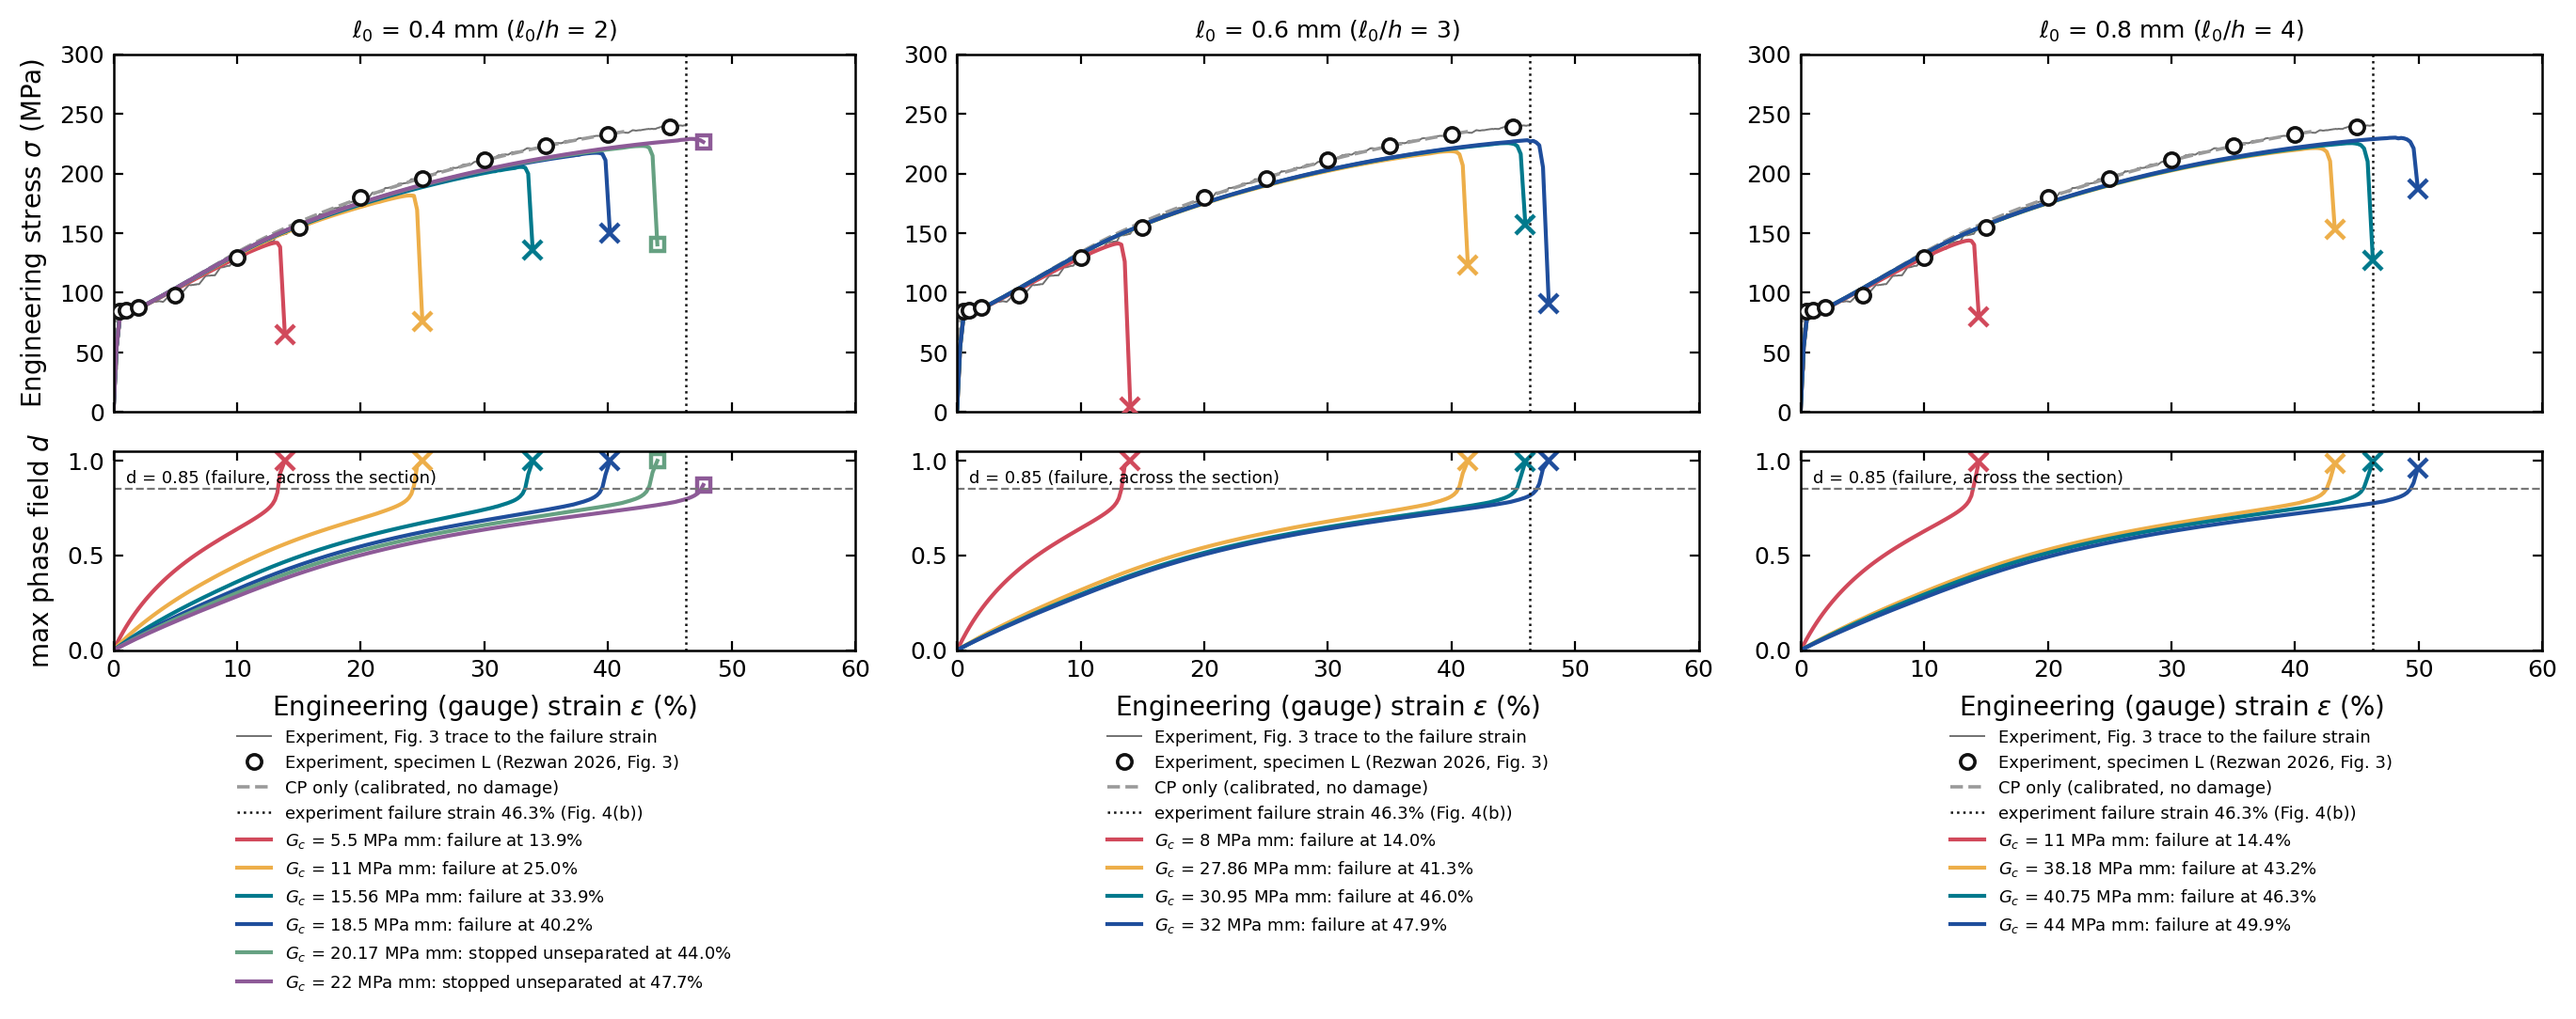
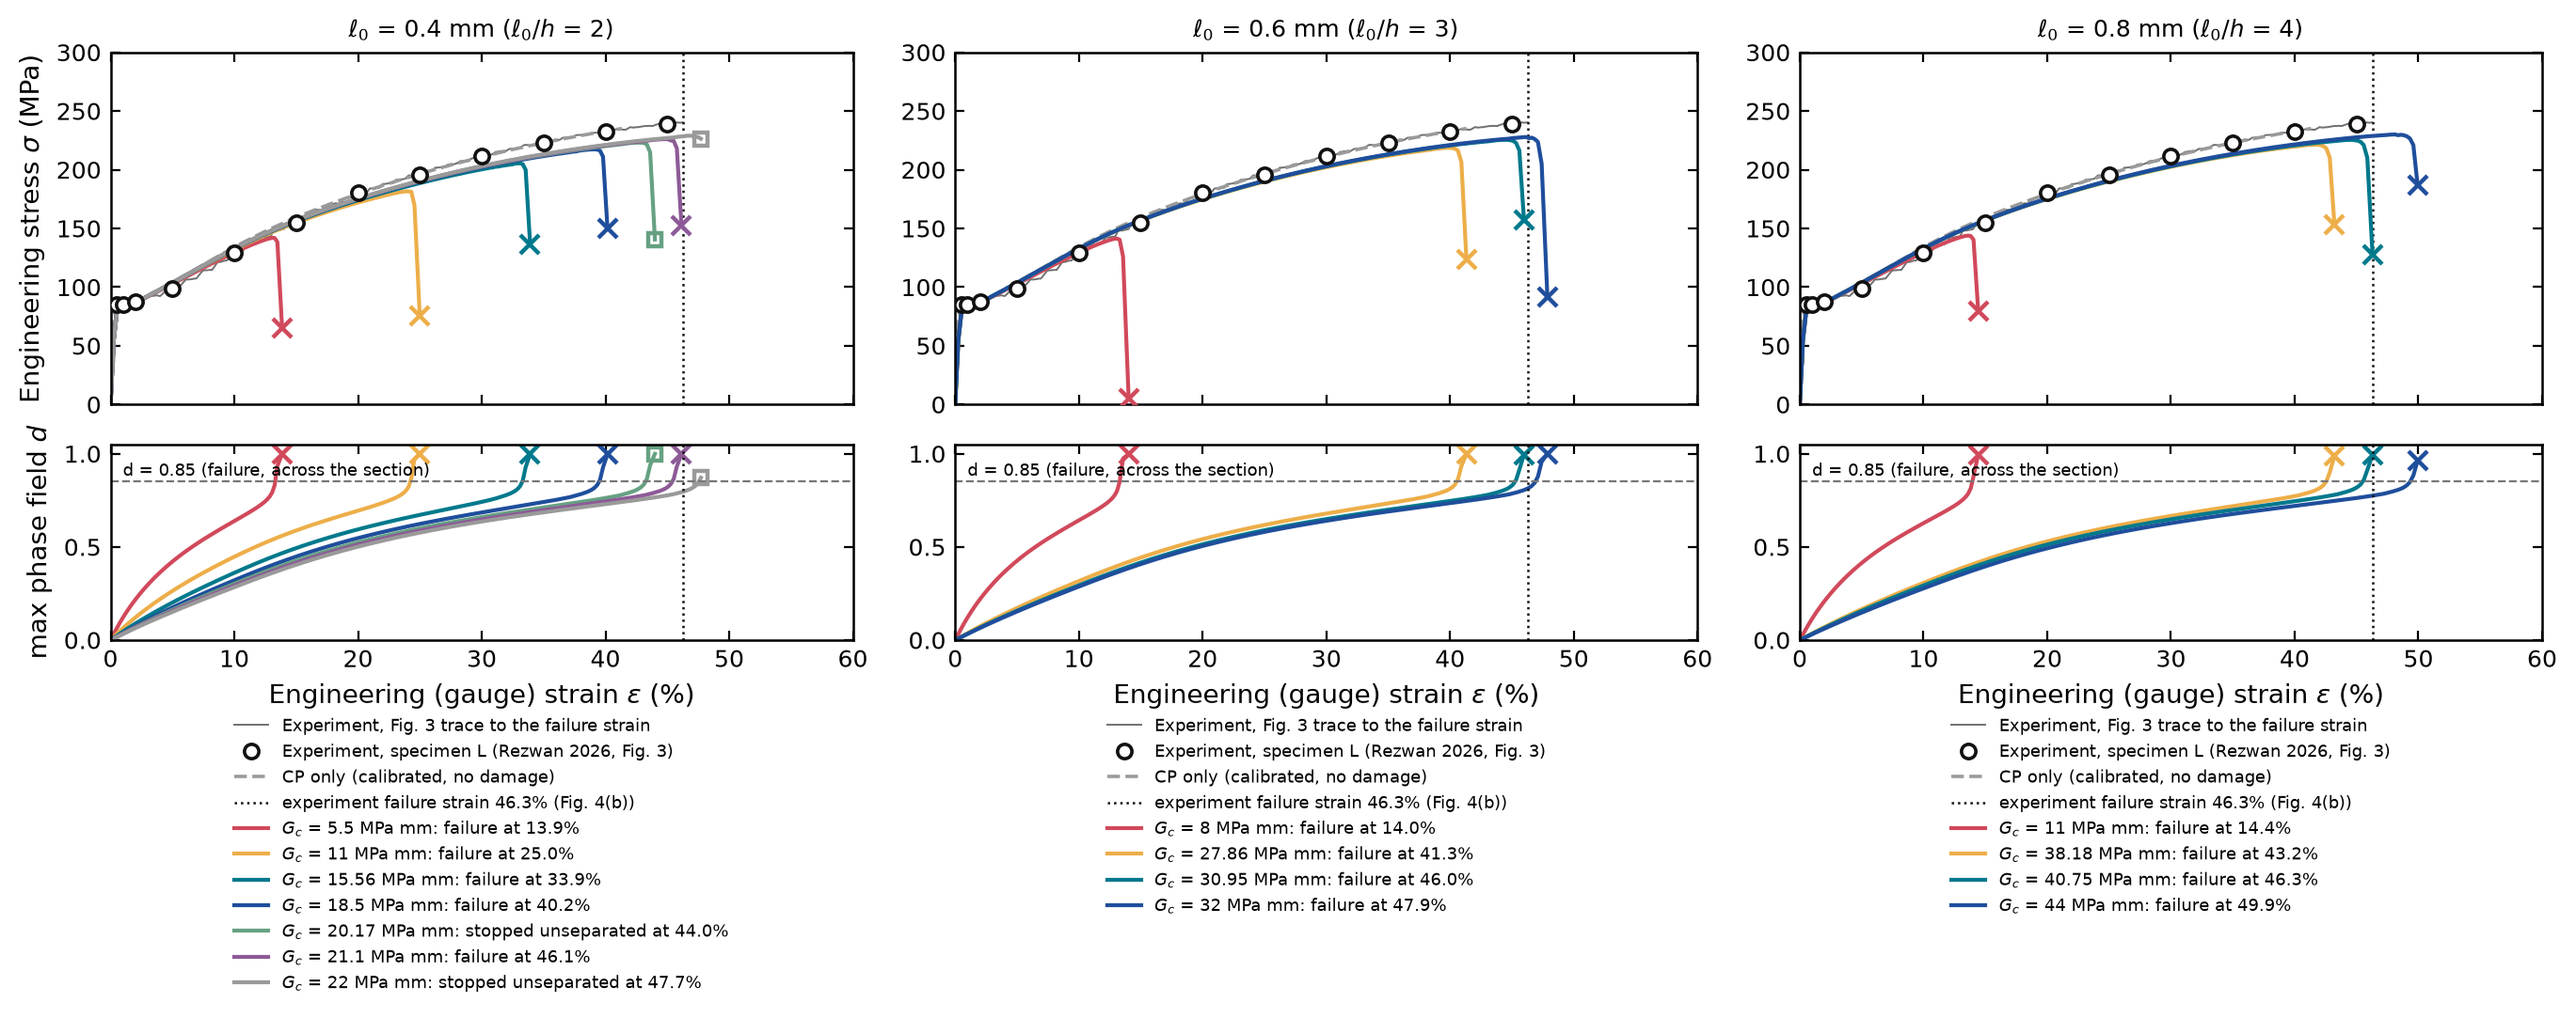
Ni CP+PFD l0 plateau at fixed G_c/l0: l0/h 2-4 flat (0.460-0.463), l0/h 6 drifts (0.472, zone at 0.32); l0 0.4 calibrated at G_c 21.1; plateau curve and shape figures; ledger

diff --git a/docs/run_ledger.md b/docs/run_ledger.md
@@ -100,8 +100,8 @@ and what it returned in one line.
 | ni-cal-h020-gn2-k1-cgroup | 2026-10-18 13:00-17:14 | `results/ni_study/cal_h020/gn2/k1_p/specimen.i` | `ni_specimen.py run`, `curve` (cgroup cap) | be71f84 / PINNACLE 9f31bb0 | rocm / 2 threads, 16 GB resident cap | 4.2 h | cutback budget spent at step 231 (43.0% gauge); BE fallback at step 234 -> 16 GB in 17 s -> oom-kill (exit -9). Curve to 43.0% kept (author); GN summary unchanged | k_m OAT curve | 12 §5.1 |
 | ni-mesh-L1-h020set | 2026-10-18 08:35 - 2026-10-19 04:14 (h010 curve end) | `decks/ni/cp/h020/mesh_L1.i` (h040, h010, h020z2; h020 = calibrated run) | `ni_study.py` | study / PINNACLE 9f31bb0 | rocm / 2 + 8 + 4 threads, address-space caps 16 / 24 / 16 GB | h040 done; h010 ~1 day | h040 finished. h020z2 VOID: hit the cap at step 36 in tangent assembly, every retry failed (kept in `h020z2/failed_ascap/`). h010 curve to 47.1% gauge (budget spent at step 243, 23 h, 11 GB resident; process left running for its field snapshots). Results docs/12 §5.2 | docs/12 §5, §5.1 | 12 §5 |
 | ni-mesh-L1-h020z2-cgroup | 2026-10-18 13:00-21:17 | `results/ni_study/mesh_study/L1_h020set/h020z2/specimen.i` | `ni_specimen.py run`, `curve` (cgroup cap) | be71f84 / PINNACLE 9f31bb0 | rocm / 4 threads, 16 GB resident cap | 8.3 h | cutback budget spent at step 226 (44.0% gauge, 238 converged steps); BE fallback -> oom-kill (exit -9). Curve to 44.0% | two-layer h020 of the mesh study | 12 §5.1 |
-| ni-pfd-cal-L1-h020-l12 | 2026-10-20 22:20 - (running) | `decks/ni/pfd/cal_L1_h020_l12.i` (one run, l0 1.2, G_c 61.1) | `ni_pfd_calibrate.py` -> `ni_specimen.py` | study / PINNACLE e2f4e94 | rocm / 2 threads, 16 GB resident cap | ~5 h | - | l0/h = 6 plateau check at G_c / l0 = 50.9 MPa (author's option 1) | 12 §6.2 |
-| ni-pfd-cal-L1-h020-l04-gc21 | 2026-10-20 21:55 - (running) | `decks/ni/pfd/cal_L1_h020_l04_gc21.i` (one run, l0 0.4, G_c 21.1) | `ni_pfd_calibrate.py` -> `ni_specimen.py` | study / PINNACLE e2f4e94 | rocm / 2 threads, 16 GB resident cap | ~5 h | - | l0 0.4 bracket 20.17/22, interpolated in ln G_c | 12 §6.2 |
+| ni-pfd-cal-L1-h020-l12 | 2026-10-20 22:20 - 2026-10-21 04:17 | `decks/ni/pfd/cal_L1_h020_l12.i` (one run, l0 1.2, G_c 61.1) | `ni_pfd_calibrate.py` -> `ni_specimen.py` | study / PINNACLE e2f4e94 | rocm / 2 threads, 16 GB resident cap | 6.0 h | failure 0.472 at 0.32 of the gage, max d 0.88 at separation; curve within 0.3% of l0 0.8 | l0/h = 6 plateau check at G_c / l0 = 50.9 MPa (author's option 1) | 12 §6.2 |
+| ni-pfd-cal-L1-h020-l04-gc21 | 2026-10-20 21:55 - 2026-10-21 04:26 | `decks/ni/pfd/cal_L1_h020_l04_gc21.i` (one run, l0 0.4, G_c 21.1) | `ni_pfd_calibrate.py` -> `ni_specimen.py` | study / PINNACLE e2f4e94 | rocm / 2 threads, 16 GB resident cap | 6.6 h | failure 0.461 at 0.17 of the gage (hit) | l0 0.4 bracket 20.17/22, interpolated in ln G_c | 12 §6.2 |
 | ni-pfd-cal-L1-h020 | 2026-10-19 17:40 - 2026-10-20 20:40 (driver restarted 2026-10-20 10:35 after a misjudged run, `cal_L1_h020_resume_l04.i`; l0 0.6/0.8 hit in round 3) | `decks/ni/pfd/cal_L1_h020.i` (base `base_L1_h020.i`; l0 0.4/0.6/0.8, first G_c 5.5/22, 8/32, 11/44) | `ni_pfd_calibrate.py` -> `ni_specimen.py` | study / PINNACLE e2f4e94 | rocm / 6 x 2 threads then 3 x 2, 16 GB resident cap each | ~4-5 h per run, 27 h in all | l0 0.6: G_c 30.95 -> 0.460; l0 0.8: 40.75 -> 0.463; l0 0.4: six runs, no hit (18.5 -> 0.402; 20.17 lost its load at 0.440 before separating, misread as too high; 22 none by 0.477) | G_c(l0) to L.1 failure strain 0.463, W_c = 0 (author's go-ahead 2026-10-19) | 12 §6.2 |
 | ni-pfd-check-L1-h020 | 2026-10-19 09:40-16:55 | `decks/ni/pfd/check_L1_h020.i` (Gc 125, l0 0.4) | `ni_specimen.py deck run curve fracture` | 44ac8b7 / PINNACLE 9f31bb0 | rocm / 2 threads, 16 GB resident cap | 7.2 h | no failure to 60% gauge; max d 0.328 at 46.3%, stress 0.985 of CP-only | first CP+PFD run on the Ni specimen: cost, failure at the paper's G_c | 12 §6 |
 | ni-pfd-smoke | 2026-10-19 09:34-09:37 | scratchpad copy of the calibrated deck on h040, 4 steps, Gc 125, l0 0.8 | `ni_specimen.py` | study / PINNACLE 9f31bb0 | local / 2 threads | 3 min | pipeline end to end: gauge strain, stress, damage 0.012 at 1.1% | CP+PFD pipeline check | 12 §6 |

diff --git a/docs/12_ni_study.md b/docs/12_ni_study.md
@@ -540,6 +540,27 @@ experiment holds 239-241 MPa from 45 to 50% and drops at 51%. PINNACLE degrades 
 before the resolved shear stress (`crystal_plasticity.degrade_pk2`), so damaged material keeps its
 flow stress and the load falls only once g(d) is nearly zero at the section.
 
+Plateau result (2026-10-21). l0 0.4 / G_c 21.1 failed at 0.461 (0.17 of the gage): hit. l0 1.2 /
+G_c 61.1 failed at 0.472 at 0.32 of the gage, with max d only 0.88 when the d > 0.85 zone first
+spanned the section (a wide, shallow band). Figures `decks/ni/figures/pfd_curves_L1_plateau.i`,
+`pfd_shape_L1_plateau.i`, `_damage.i`:
+
+| l0/h | l0 (mm) | G_c (MPa mm) | G_c / l0 | failure | location | max stress vs l0 0.8 (5-43%) |
+|---|---|---|---|---|---|---|
+| 2 | 0.4 | 21.1 | 52.8 | 0.461 | 0.17 | 0.08% |
+| 3 | 0.6 | 30.95 | 51.6 | 0.460 | 0.21 | 0.08% |
+| 4 | 0.8 | 40.75 | 50.9 | 0.463 | 0.25 | - |
+| 6 | 1.2 | 61.1 | 50.9 | 0.472 | 0.32 | 0.30% |
+
+The stress-strain curve does not depend on l0 at all at fixed G_c / l0 (the curves coincide, and
+max d against strain too). The failure strain is flat over l0/h = 2-4 and rises at 6; the fracture
+zone widens with l0 (2.2 / 2.8 / 3.2 / 3.4 mm at the top face) and its center drifts along the gage
+toward the middle (the thinnest station is at 0.20). By the author's rule (first two consecutive
+l0/h that barely change the result; take the larger) l0/h = 2 and 3 agree in curve, failure strain
+and location within 0.04 of the gage, which gives l0 = 0.6 mm (l0/h = 3); l0/h = 4 still agrees in
+curve and failure strain but the zone has moved to 0.25. Proposed to the author: l0 = 0.6 mm, G_c =
+30.95 MPa mm for the W_c = 0 condition; the W_c stage runs at l0 = 0.6.
+
 ### 6.3 Plastic-work threshold W_c on the CP route (2026-10-20)
 
 The threshold already exists in PINNACLE's `pfd_driving_force` (ADR 0031: H = max(H, psi+ + zeta
